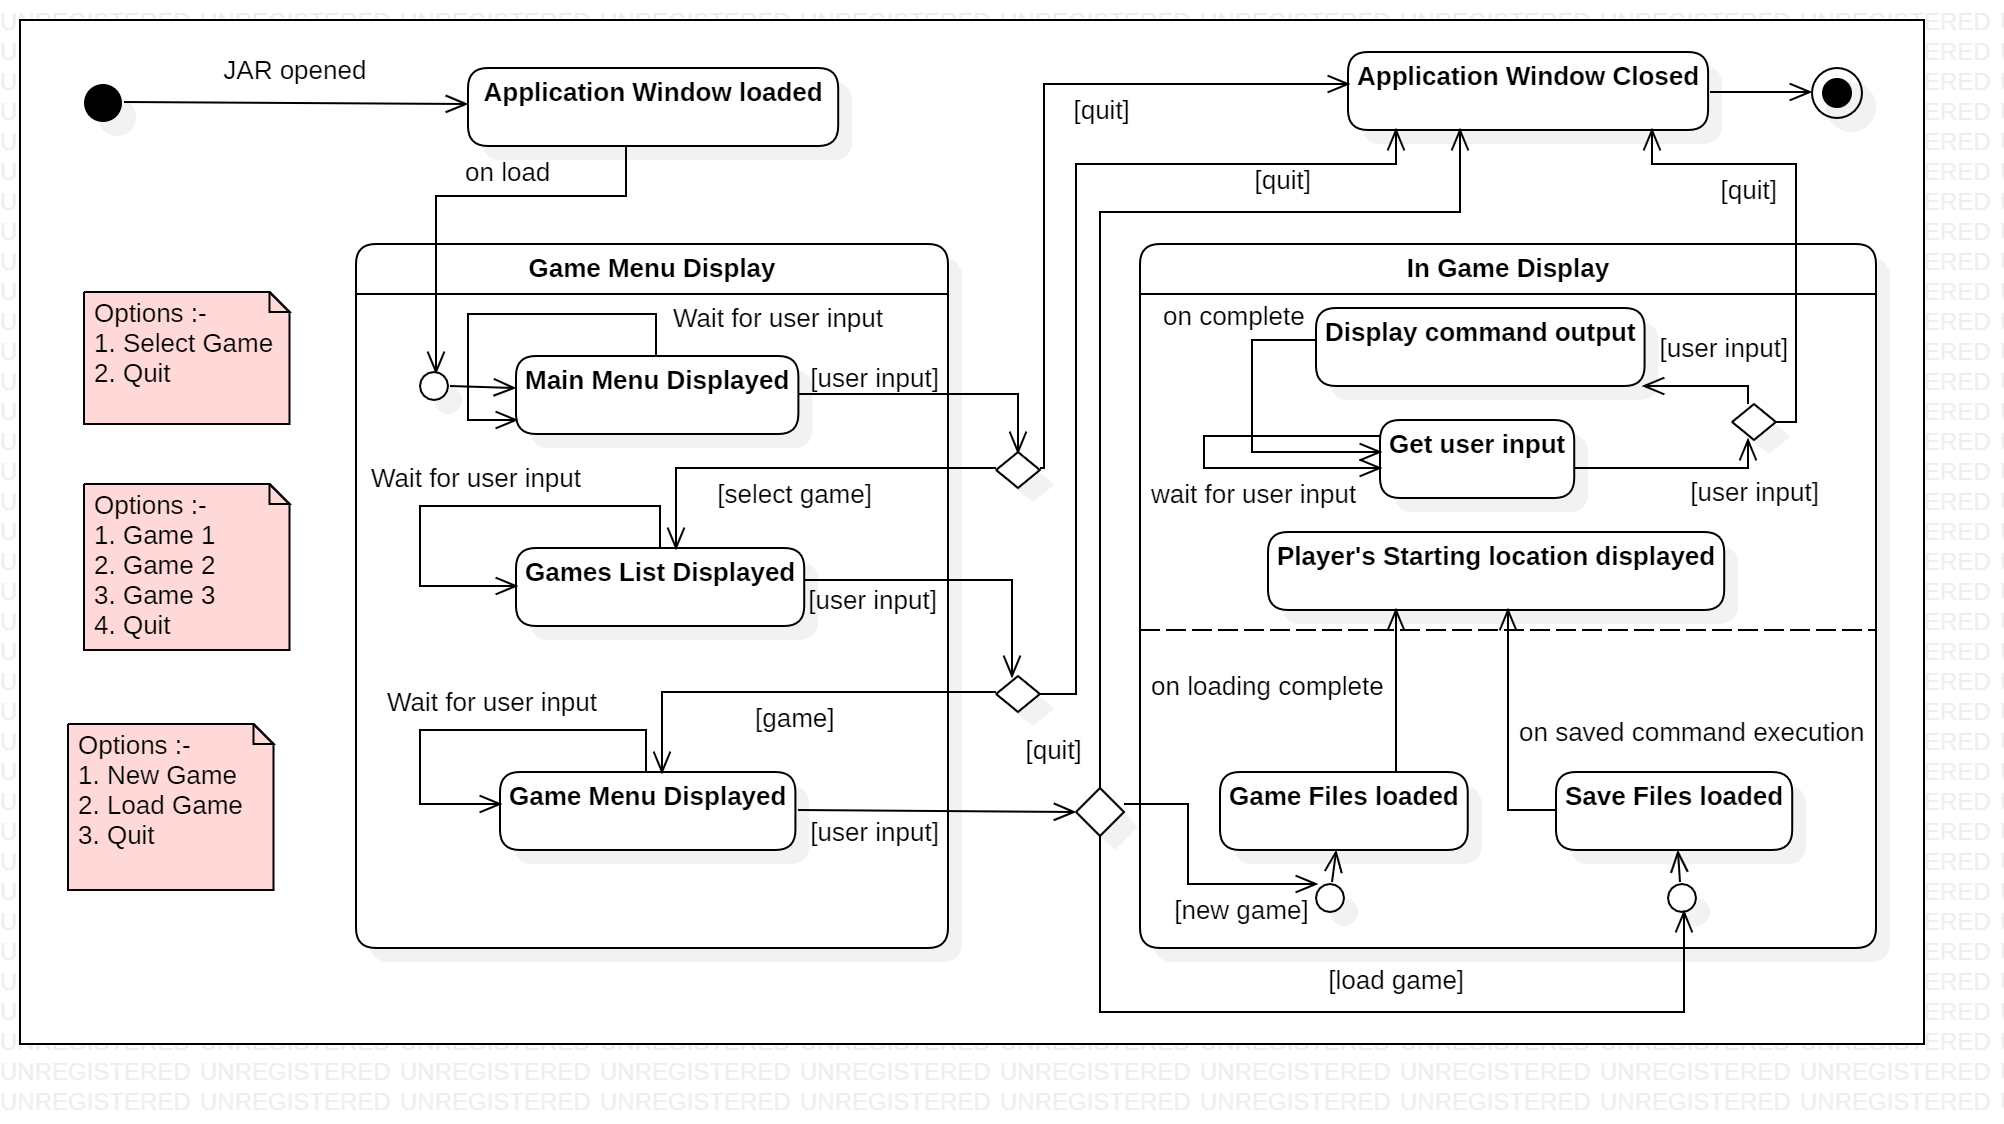
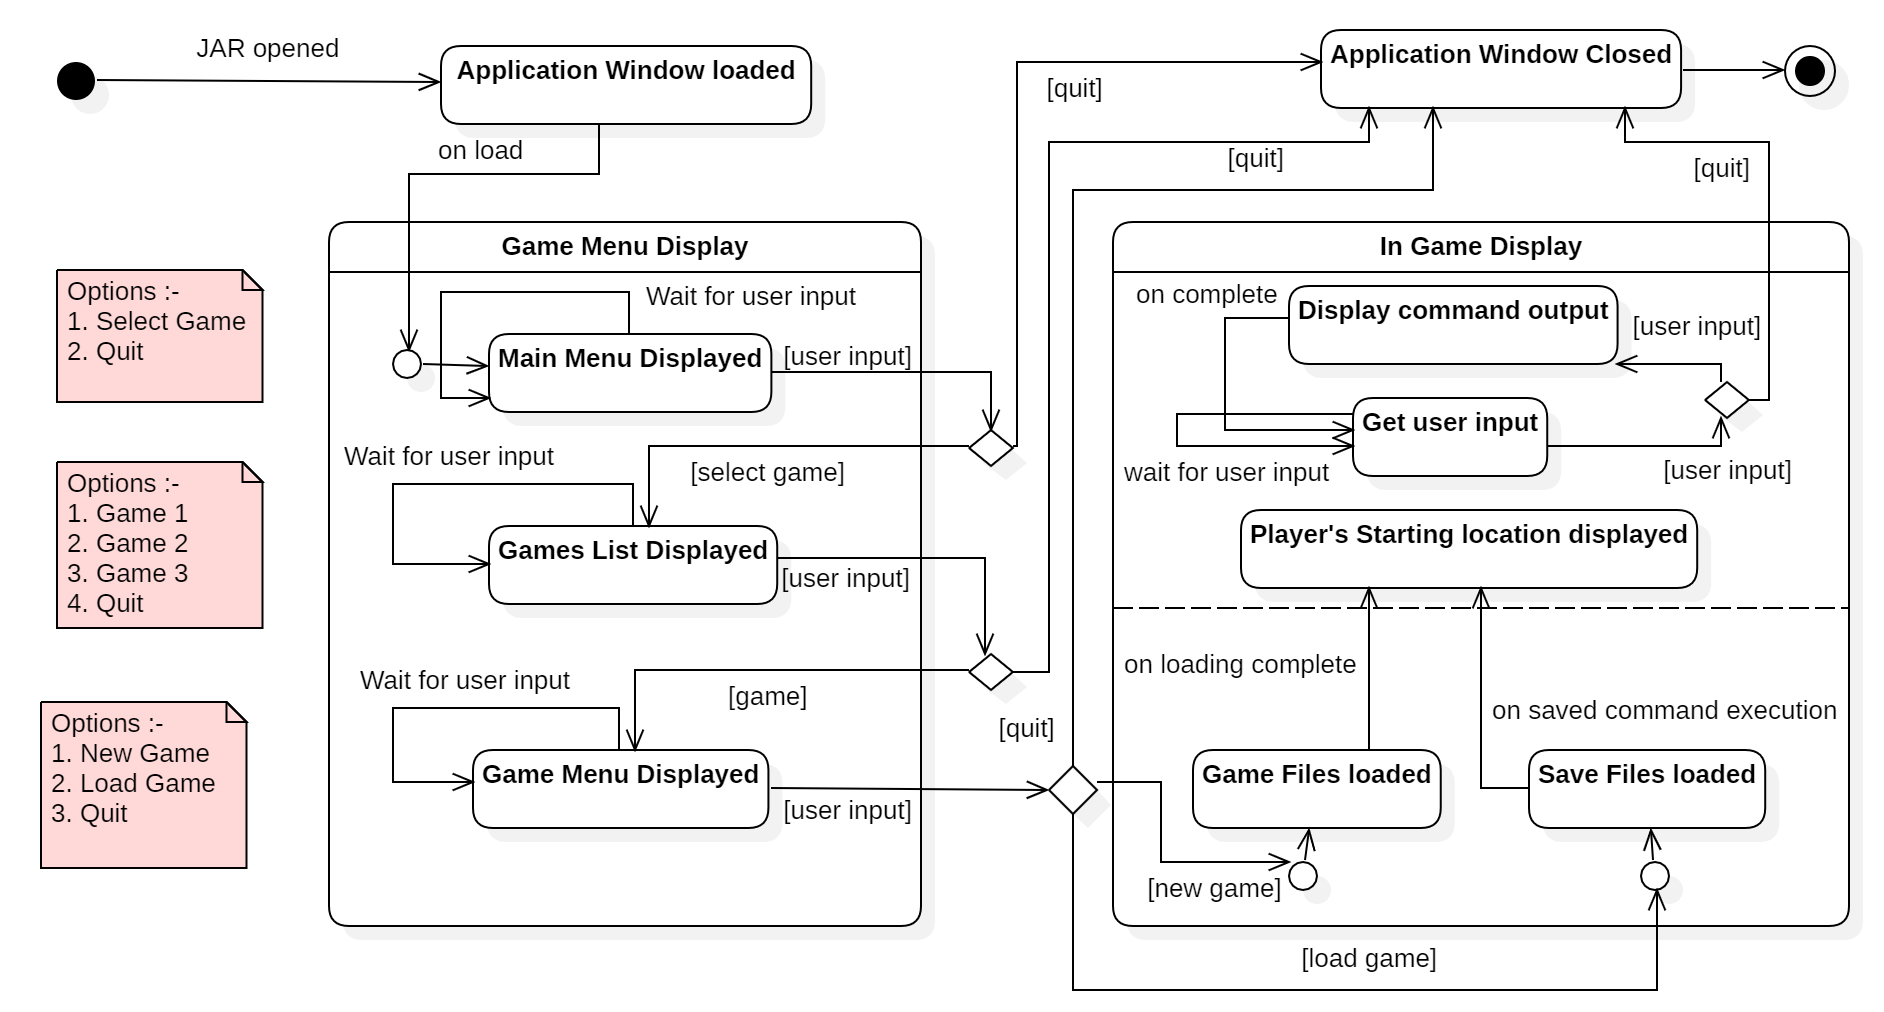
updated the state ui disagram and updated the assignment2 doc

diff --git a/docs/assignment2.md b/docs/assignment2.md
@@ -136,7 +136,30 @@ This chapter is composed of a UML object diagram of your system, together with a
 Maximum number of words for this section: 1000
 
 ## State machine diagrams									
-Author(s): `name of the team member(s) responsible for this section`
+Author(s): `Anthony Wilkes, Ajay Hitendra Mota`
+
+In this section we will describe two components of the system that hold different states. There are the **Engine** class and the **UIHandler** class.
+
+### UIHandler
+The state machine diagram for the UIHandler is as follows :-
+![State machine diagrams](./assets/state_ui.png "State machine diagram 1")
+The UI as mentioned earlier will make use of a terminal window that is called using the native terminal application provided by the Operating System and otherwise open a window using the *javax.swing* package. This functionality of opening an application window will be provided by the *Text-IO* package.
+
+The general states can be briefly explained prior to diving into their details as follows :-
+- On running the JAR file an application window is opened up as explained earlier
+- The UI then changes the state to a **Game Menu Display** that allows to user to select the game or quit the application
+- On selecting the *Select Game* option, a list of different games will be displayed to the user that are available on disk.
+- On selecting a particular game the user could then start a new game or load a previously saved game or even quit the game.
+- If the user decides to start a new game or loads a game, the UI enters a new state that can be called the **In Game Display**.
+- Here the menu is cleared from the terminal and the appropriate game files are loaded in the background.
+- The player's starting location is displayed and the UI waits for user input.
+- The success or failure message of each command is displayed to the user and the state returns to waiting for user input.
+- The application keeps alternating between the two internal states till the user does not enter the `quit` command.
+- On `quit` the application window is closed and the application exits. 
+
+The UIHandler will exist in two major states with multiple internal sub-states. The description of the major states are as follows:-
+- Game Menu Display: 
+- In Game Display:
 
 This chapter contains the specification of at least 2 UML state machines of your system, together with a textual description of all their elements. Also, remember that classes the describe only data structures (e.g., Coordinate, Position) do not need to have an associated state machine since they can be seen as simple "data containers" without behaviour (they have only stateless objects).
 
